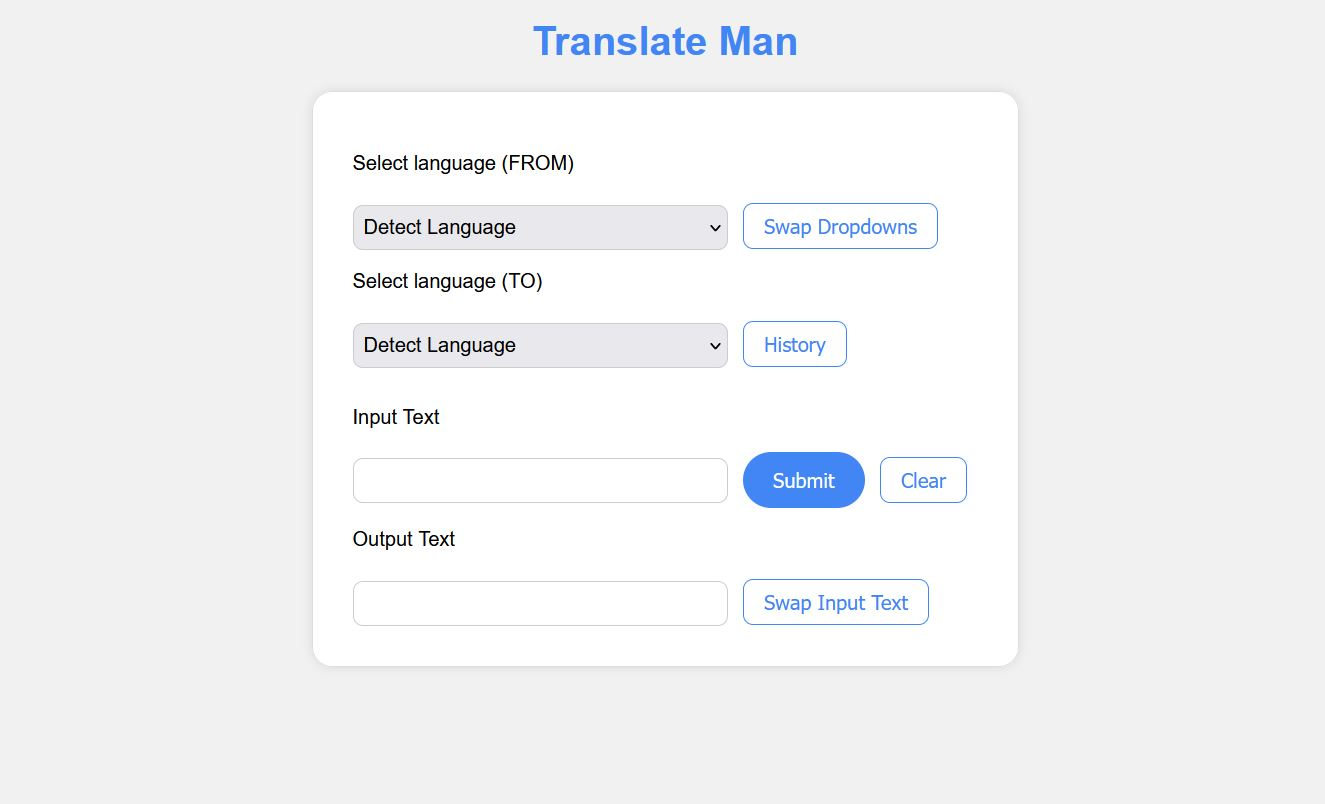
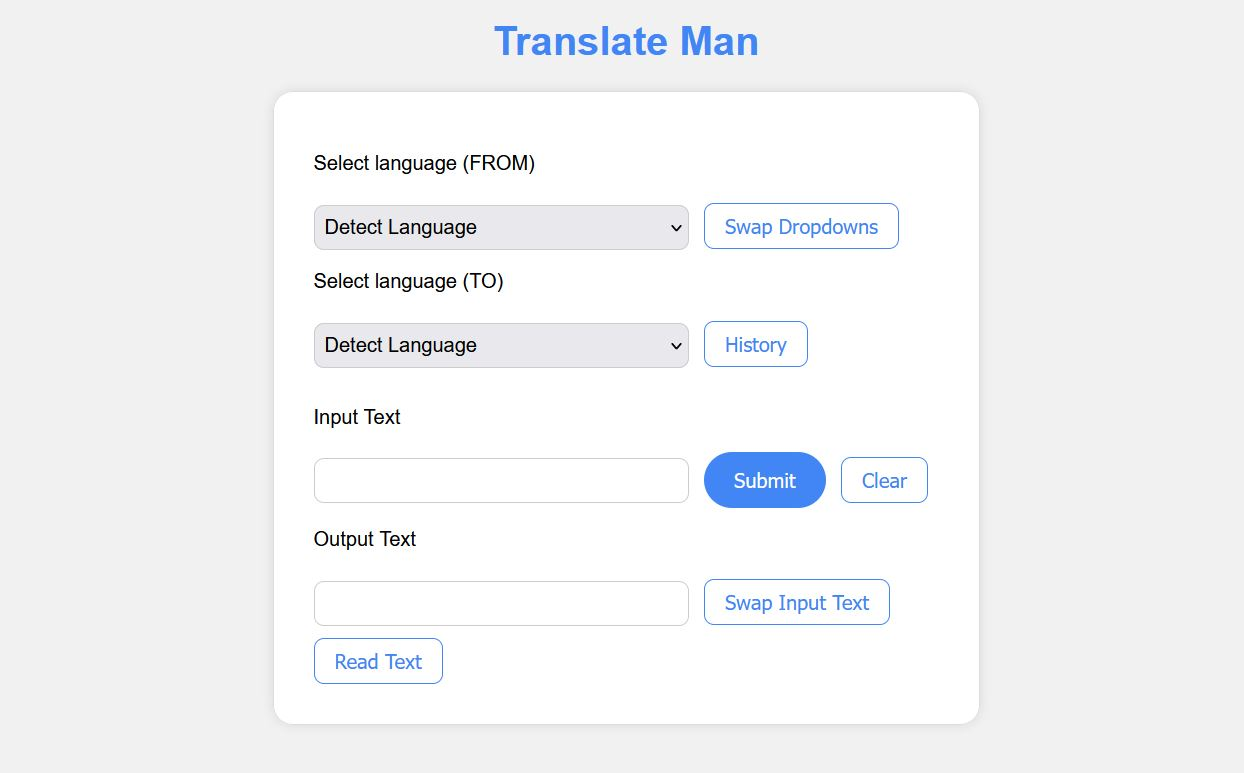
[ADD-Feature] Text-To-Speech API / [UPDATE] Readme

diff --git a/templateFiles/index.html b/templateFiles/index.html
@@ -5,6 +5,7 @@
     <title>Dropdown</title>
     <link rel="stylesheet" href="../staticFiles/main.css" />
     <script src="https://code.jquery.com/jquery-3.6.0.min.js"></script>
+    <script src="https://code.responsivevoice.org/responsivevoice.js?key=hbwx4jJc"></script>
   </head>
   <body>
     <h1>Translate Man</h1>
@@ -38,6 +39,7 @@
       <button class="swap" id="swapInputBtn" type="button">
         Swap Input Text
       </button>
+      <button class="swap_drop" id="ttsBtn" type="button">Read Text</button>
     </form>
     <script src="../staticFiles/main.js"></script>
   </body>

diff --git a/staticFiles/main.css b/staticFiles/main.css
@@ -82,6 +82,26 @@ select:focus {
   border-color: #fff;
 }
 
+.swap_drop {
+  margin-top: 10px ;
+  background-color: #fff;
+  color: #4285f4;
+  border: 1px solid #4285f4;
+  padding: 0.5em 1em;
+  border-radius: 0.5em;
+  font-size: 1em;
+  cursor: pointer;
+  transition: background-color 0.3s ease, color 0.3s ease,
+    border-color 0.3s ease;
+}
+
+.swap_drop:hover {
+  background-color: #4285f4;
+  color: #fff;
+  border-color: #fff;
+}
+
+
 .container {
   max-width: 800px;
   margin: 0 auto;

diff --git a/staticFiles/main.js b/staticFiles/main.js
@@ -56,4 +56,10 @@ $(document).ready(function () {
     $("#homeBtn").click(function () {
         window.location.href = "/";
     });
+    $("#ttsBtn").click(function () {
+        var outputText = $("#outputText").val();
+        var languageTo = 'UK English Male'
+    
+        responsiveVoice.speak(outputText, languageTo);
+      });
 });

diff --git a/README.md b/README.md
@@ -64,6 +64,10 @@ The web application presents a form with the following components:
 
 - **History:** Clicking this button will display the history of translations performed in the current session. The history is displayed in a modal window.
 
+### Text-to-Speech
+
+- **Text-to-Speech:** Clicking this button will read the text displayed in the "Output Text" field using the responsivevoiceAPI
+
 ## Screenshots
 
 ### Main Page
